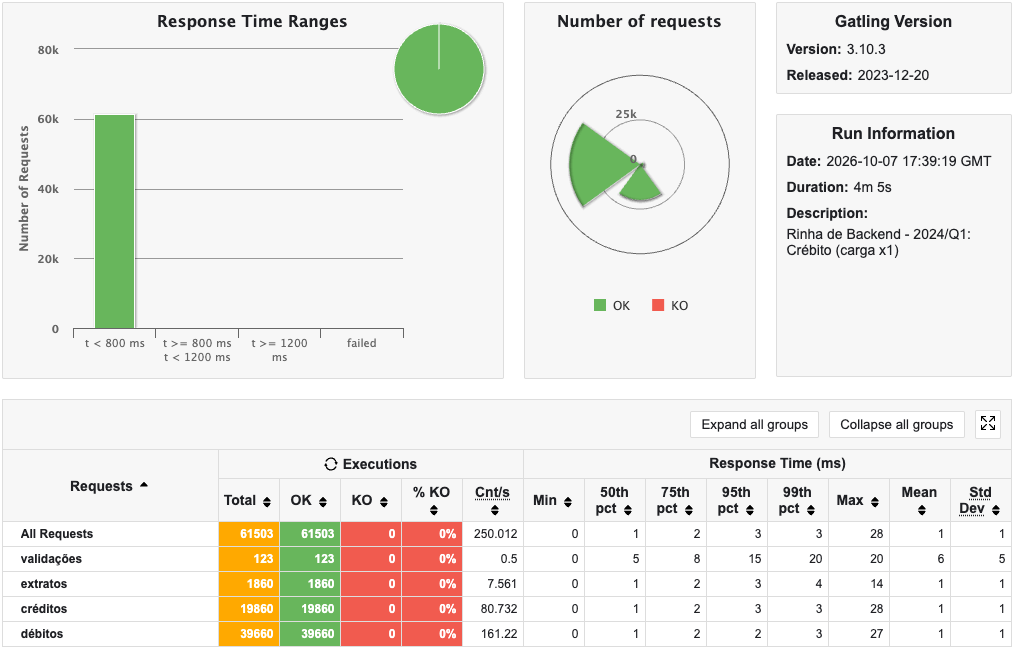
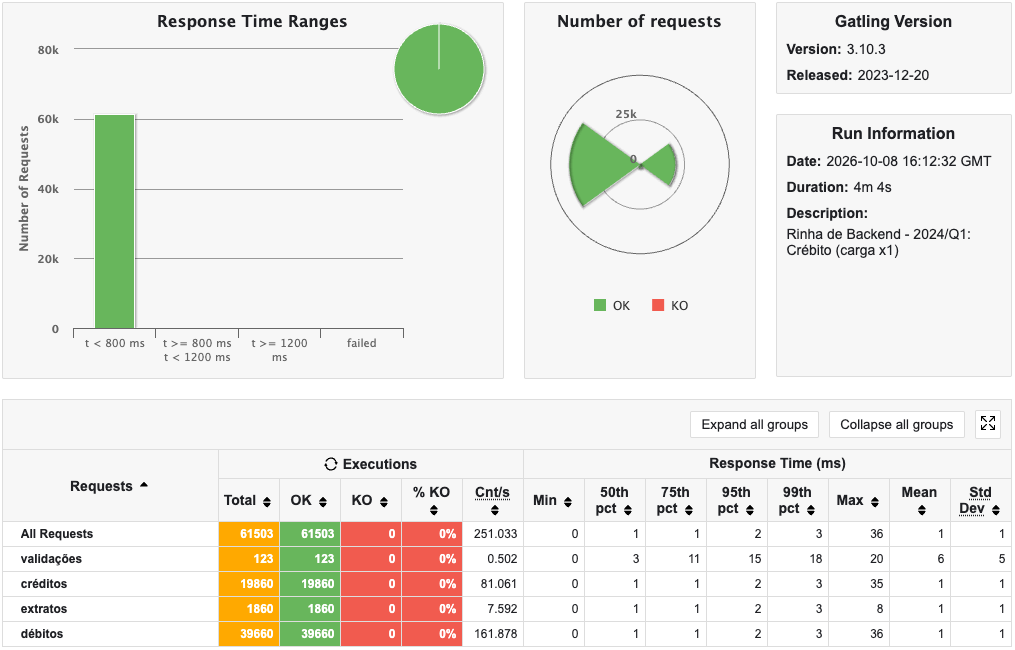
nginx fala com as apis por unix socket
Perfil (stackprof) em 20x: ~77% da cpu das apis em syscalls de rede
(exec_prepared, write, accept, close, gets); logica Ruby < 10%.
Unix socket entre nginx e apis corta ~25% da cpu do nginx e ~10% das
apis. Essa folga foi para as apis: apis 0.225 cada, nginx 0.45
(total segue 1.5).

- max_fails=0: com unix socket a fila cheia recusa na hora (EAGAIN) e o
  nginx tirava a api de rotacao por 10s, derrubando 46% em 30x
- 25x: 0 KO em 3 de 3 rodadas (main anterior: KO em 1 de 4)
- 30x: 13% KO (main anterior: 16%)

Unix socket tambem no Postgres ficou de fora: ganhou em 30x mas teve
KO nas 3 rodadas de 25x, com mais disputa em LWLock:WALWrite.

diff --git a/server.rb b/server.rb
@@ -86,7 +86,13 @@ rescue StandardError => e
   [500, '{}']
 end
 
-server = TCPServer.new(3000)
+# Atrás do nginx, unix socket (SOCKET) custa menos CPU que TCP; sem SOCKET, escuta na 3000.
+server = if (caminho = ENV['SOCKET'])
+  File.unlink(caminho) if File.exist?(caminho)
+  UNIXServer.new(caminho).tap { File.chmod(0o666, caminho) }
+else
+  TCPServer.new(3000)
+end
 puts 'Server started'
 $stdout.flush
 

diff --git a/README.md b/README.md
@@ -2,7 +2,7 @@
 
 Servidor web síncrono em Ruby puro (`TCPServer` + gem `pg`) para a [Rinha de Backend 2024/Q1](https://github.com/zanfranceschi/rinha-de-backend-2024-q1).
 
-- 2 APIs single-thread, uma conexão com o Postgres por processo, atrás do nginx
+- 2 APIs single-thread, uma conexão com o Postgres por processo, atrás do nginx via unix socket
 - uma instrução SQL por request: débito atômico via `UPDATE ... WHERE balance + valor >= -limite` + `INSERT` na mesma CTE; extrato num único snapshot
 - statements preparados
 - recursos dentro da regra: 1,5 CPU e 550MB no total
